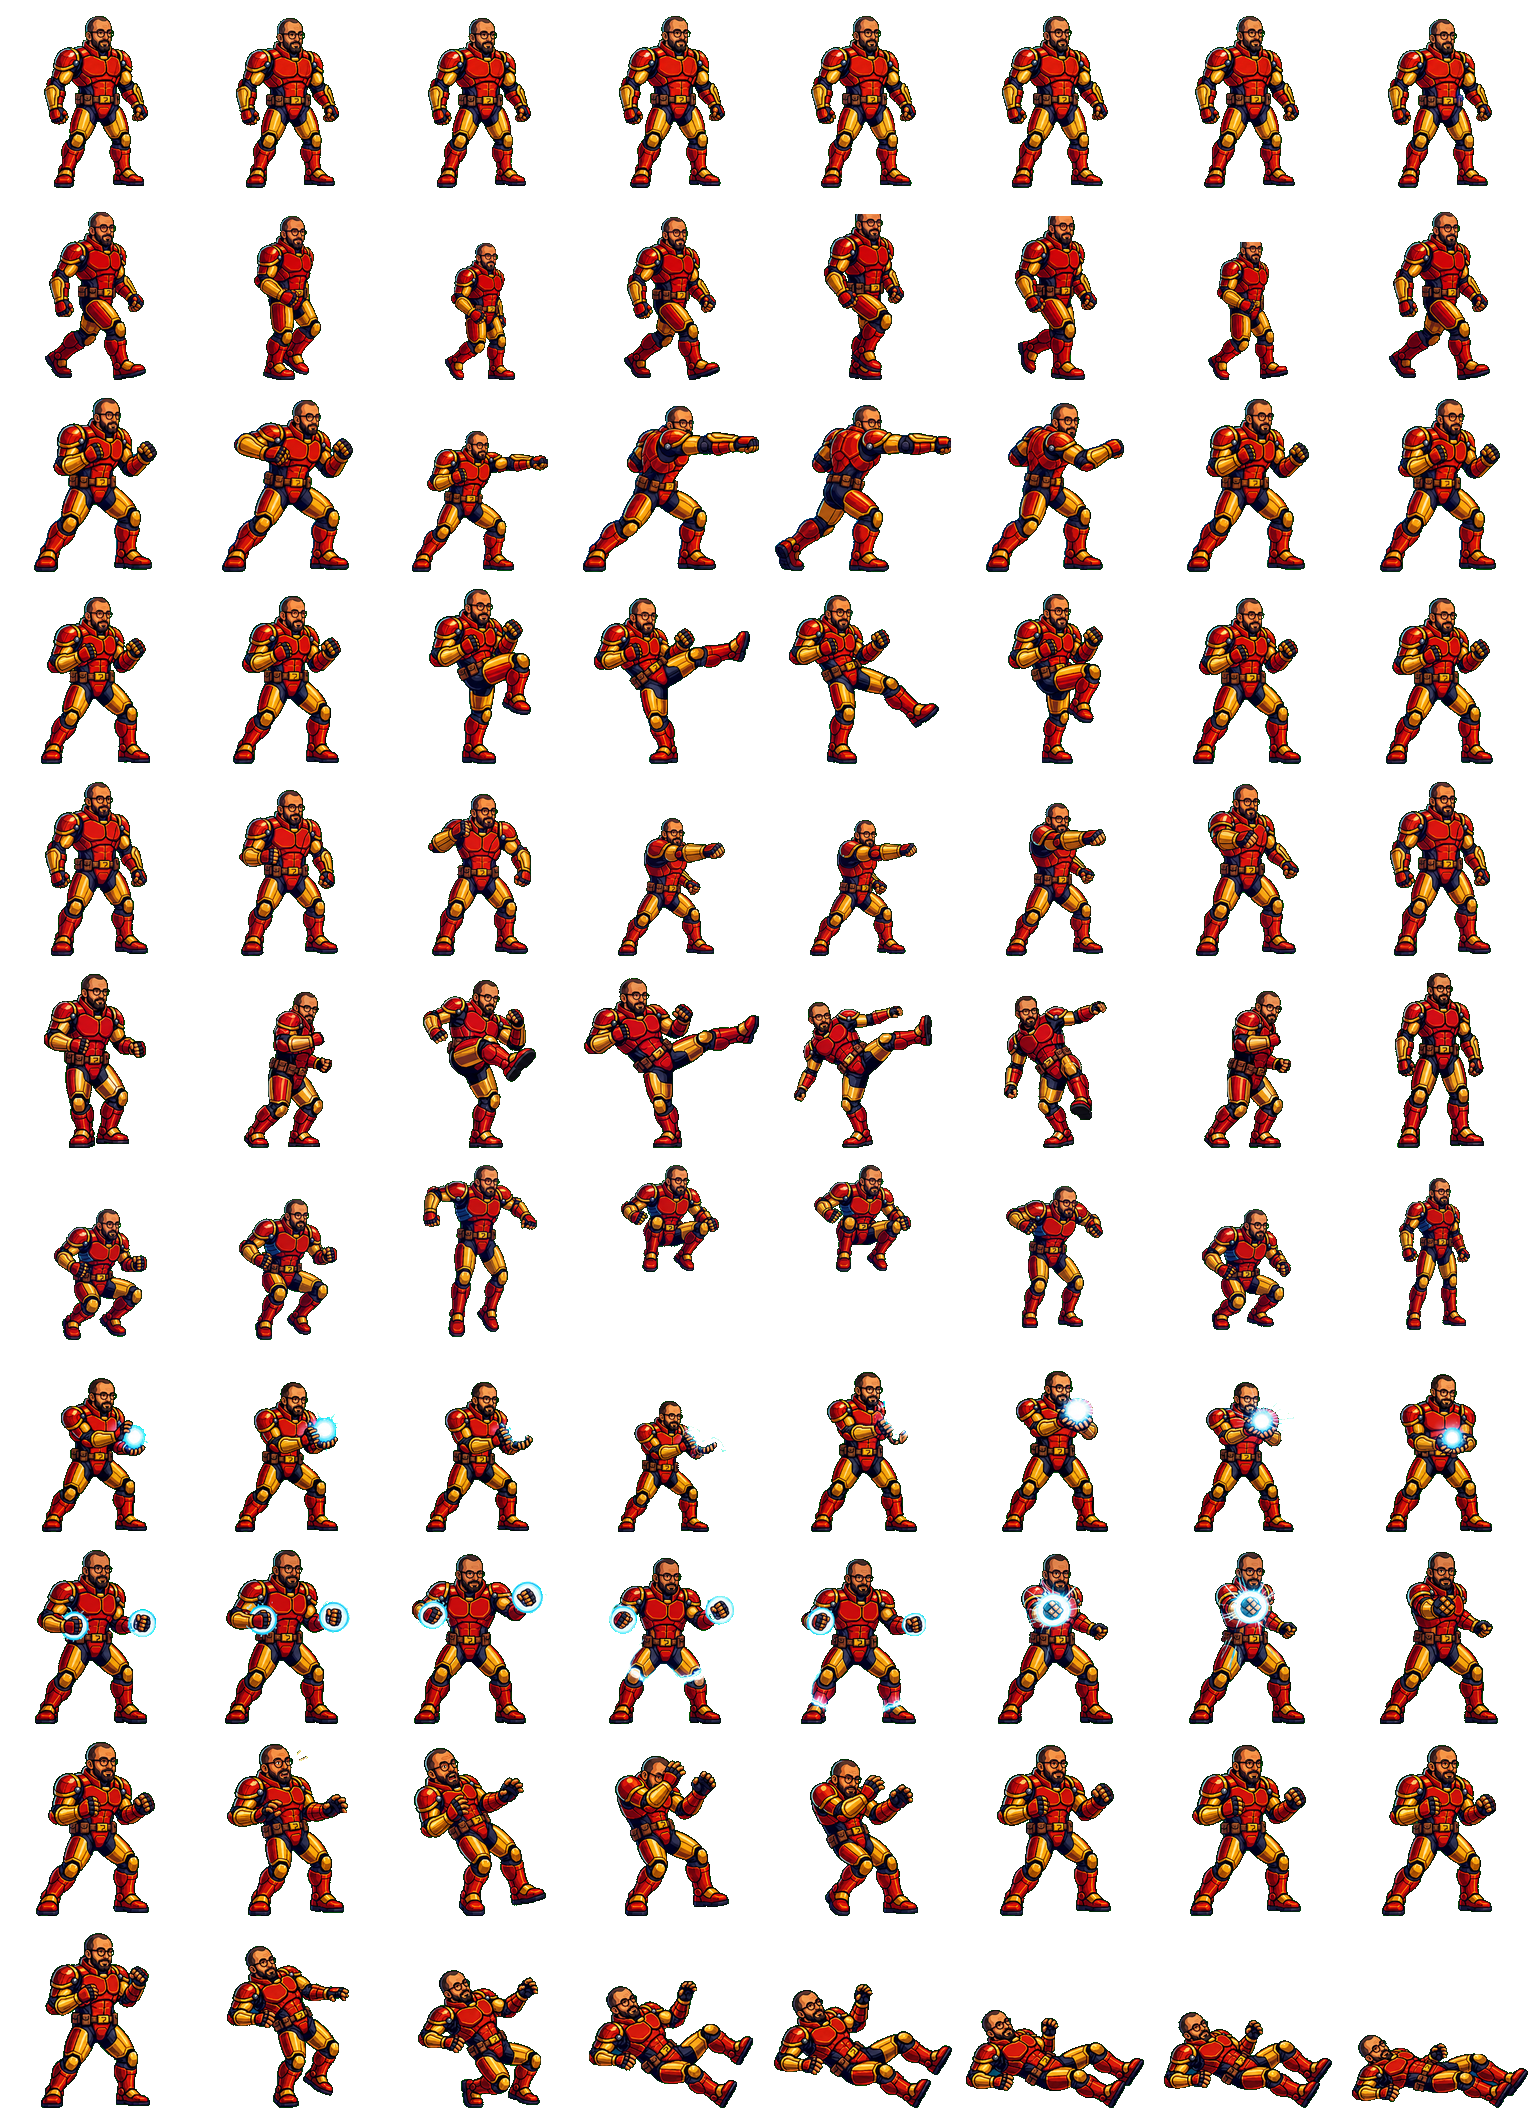
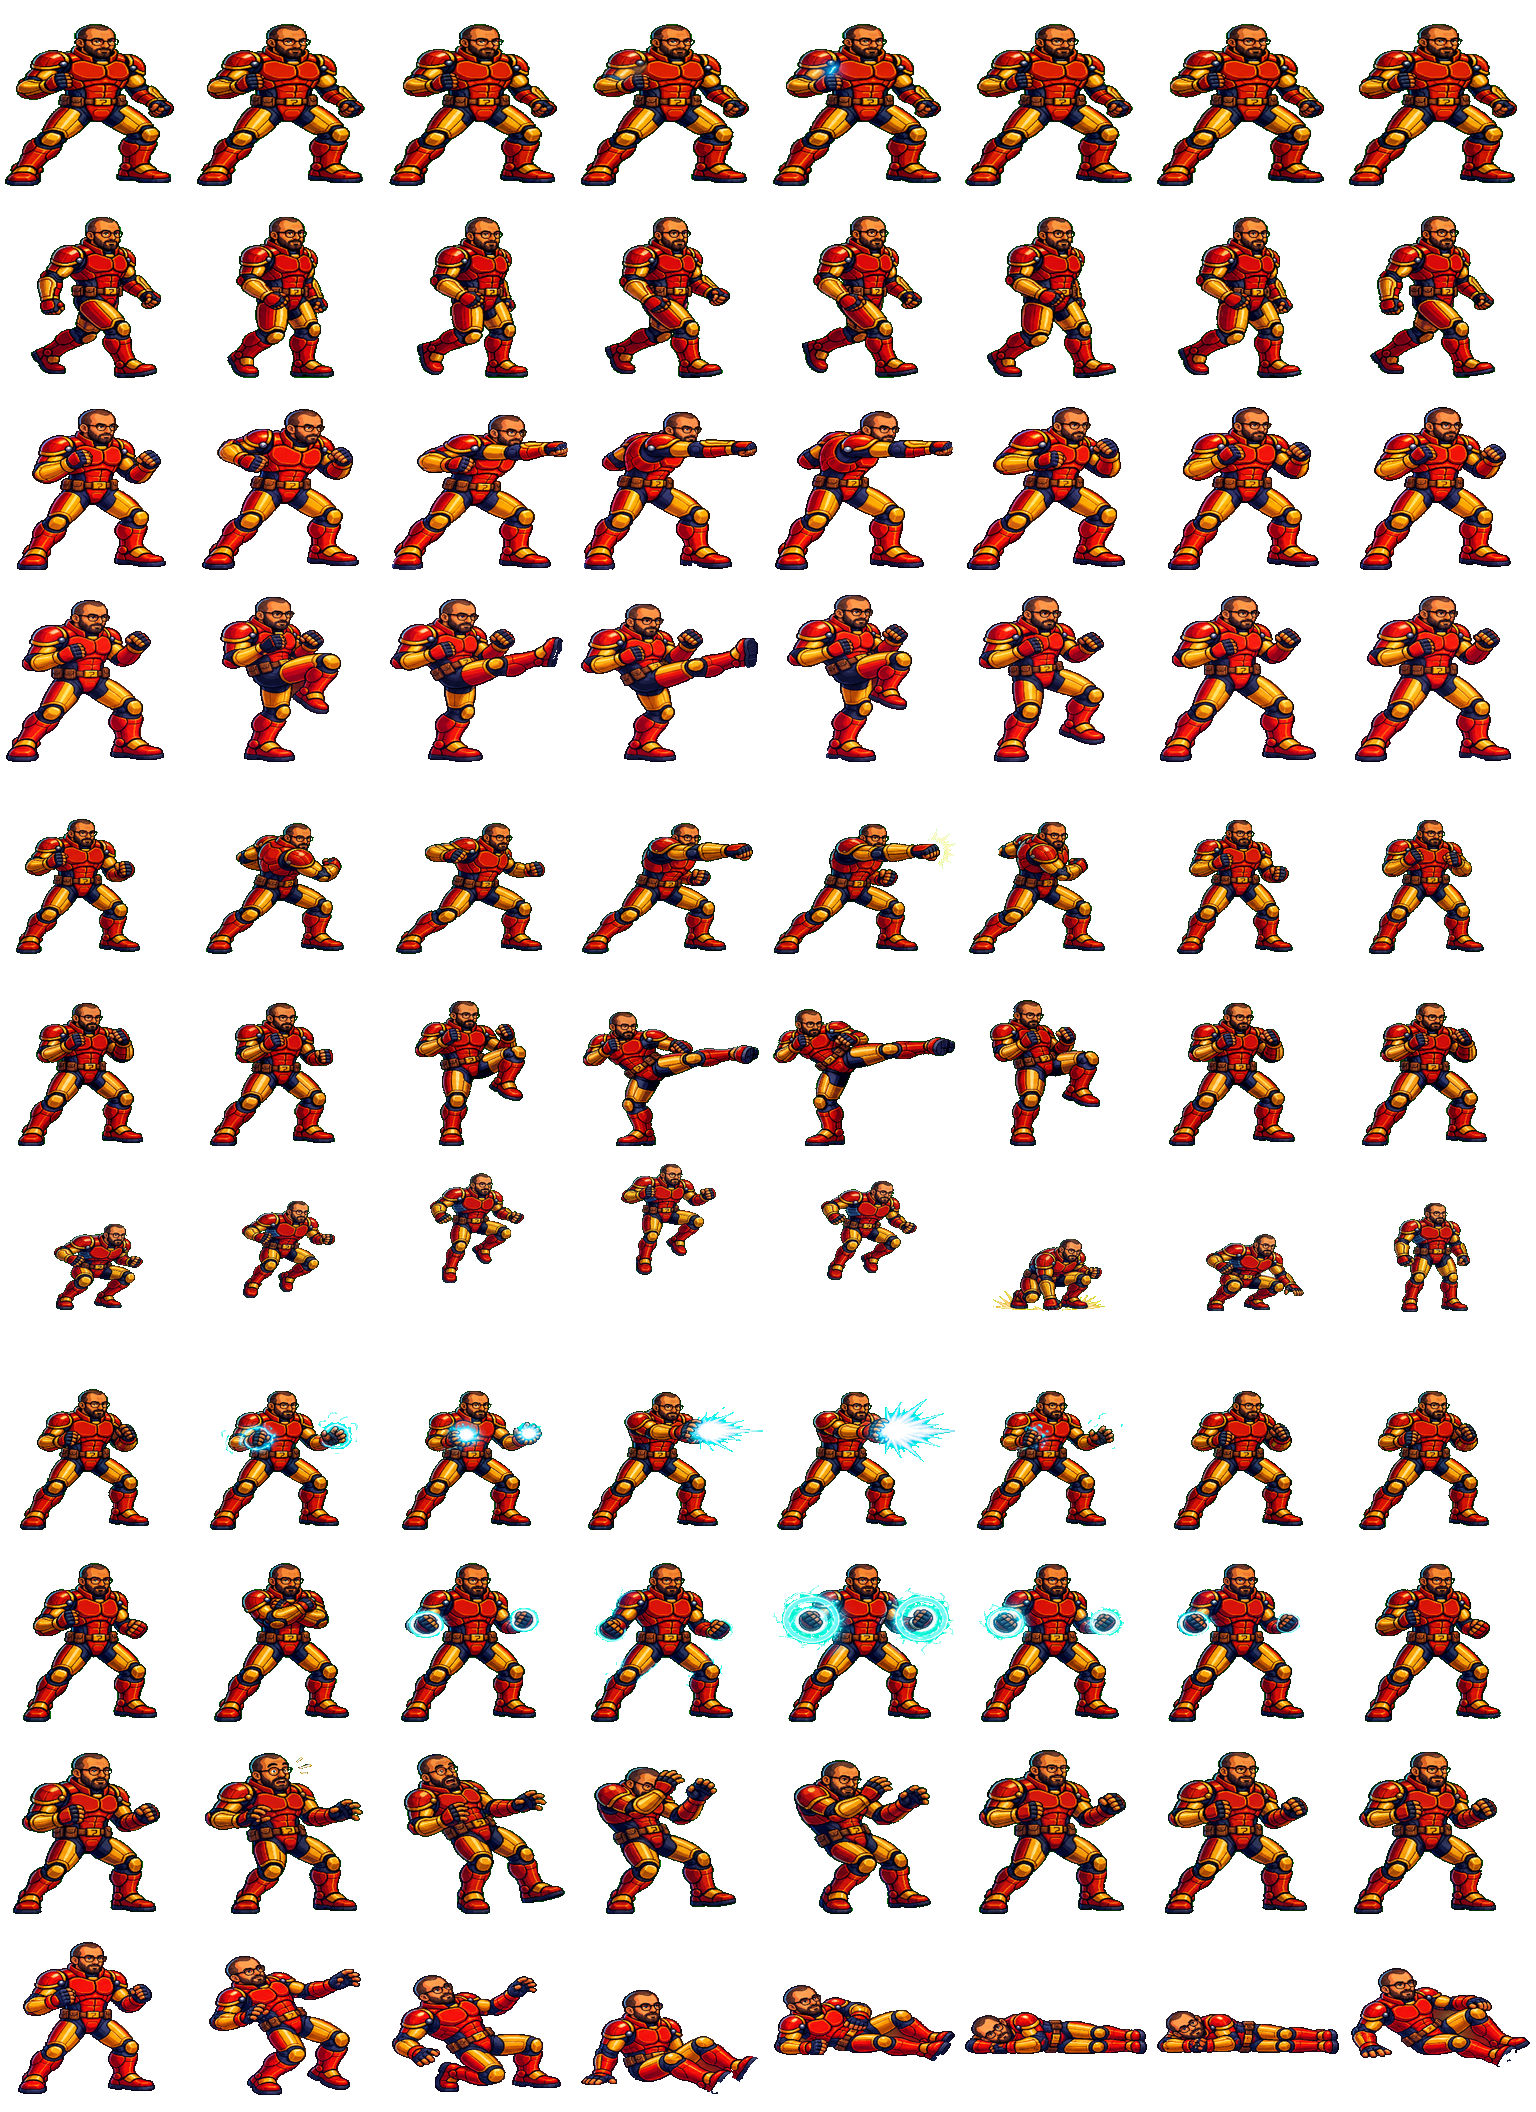
art: redraw Essa with stable high-detail animation

diff --git a/android/tools/build_two_character_redraw.py b/android/tools/build_two_character_redraw.py
@@ -14,7 +14,8 @@ from PIL import Image
 
 ROOT = Path(__file__).resolve().parents[2]
 ASSETS = ROOT / "android/app/src/main/assets"
-SOURCE = ROOT / "assets/imagegen/android/character-redraw-v3"
+SOURCE_V3 = ROOT / "assets/imagegen/android/character-redraw-v3"
+SOURCE_V4 = ROOT / "assets/imagegen/android/character-redraw-v4"
 
 ESSA_ACTIONS = ("idle", "walk", "punch", "kick", "heavy_punch",
                 "heavy_kick", "jump", "special", "link", "hurt", "knockdown")
@@ -23,16 +24,19 @@ STRIKER_ACTIONS = ("idle", "walk", "attack1", "attack2", "hurt", "knockdown")
 # The generated heavy-kick sheet contains the right keys but not chronological
 # panel order. Reorder, never interpolate, to keep one readable action.
 FRAME_REMAP = {
-    ("essa", "walk"): (0, 1, 2, 3, 5, 6, 7, 0),
-    ("essa", "heavy_kick"): (1, 4, 2, 0, 5, 6, 3, 7),
 }
+
+
+def actor_source(name: str) -> Path:
+    return SOURCE_V4 if name == "essa" else SOURCE_V3
 
 
 def is_chroma(red: int, green: int, blue: int) -> bool:
     return green > 138 and green > red * 1.35 and green > blue * 1.20
 
 
-def split_sheet(path: Path, columns: int, rows: int) -> list[Image.Image]:
+def split_sheet(path: Path, columns: int, rows: int,
+                preserve_canvas: bool = False) -> list[Image.Image]:
     image = Image.open(path).convert("RGB")
     frames = []
     for index in range(columns * rows):
@@ -48,11 +52,45 @@ def split_sheet(path: Path, columns: int, rows: int) -> list[Image.Image]:
         pixels = cell.load()
         rgba = Image.new("RGBA", cell.size, (0, 0, 0, 0))
         output = rgba.load()
-        for y in range(cell.height):
+        edge = ([pixels[x, 0] for x in range(cell.width)]
+                + [pixels[x, cell.height - 1] for x in range(cell.width)]
+                + [pixels[0, y] for y in range(cell.height)]
+                + [pixels[cell.width - 1, y] for y in range(cell.height)])
+        chroma_edge = sum(is_chroma(*color) for color in edge) / max(1, len(edge))
+        if chroma_edge >= 0.5:
+            for y in range(cell.height):
+                for x in range(cell.width):
+                    red, green, blue = pixels[x, y]
+                    if not is_chroma(red, green, blue):
+                        output[x, y] = (red, green, blue, 255)
+        else:
+            # Some otherwise approved sheets arrive on a smooth dark studio
+            # gradient. Flood only locally similar colors from the four edges;
+            # the fighter's hard navy outline stops the flood cleanly.
+            background = set()
+            queue = deque()
             for x in range(cell.width):
-                red, green, blue = pixels[x, y]
-                if not is_chroma(red, green, blue):
-                    output[x, y] = (red, green, blue, 255)
+                queue.extend(((x, 0), (x, cell.height - 1)))
+            for y in range(cell.height):
+                queue.extend(((0, y), (cell.width - 1, y)))
+            while queue:
+                x, y = queue.popleft()
+                if (x, y) in background:
+                    continue
+                background.add((x, y))
+                color = pixels[x, y]
+                for nx, ny in ((x-1, y), (x+1, y), (x, y-1), (x, y+1)):
+                    if not (0 <= nx < cell.width and 0 <= ny < cell.height):
+                        continue
+                    neighbor = pixels[nx, ny]
+                    delta = sum(abs(color[index] - neighbor[index]) for index in range(3))
+                    if delta <= 18 and (nx, ny) not in background:
+                        queue.append((nx, ny))
+            for y in range(cell.height):
+                for x in range(cell.width):
+                    if (x, y) not in background:
+                        red, green, blue = pixels[x, y]
+                        output[x, y] = (red, green, blue, 255)
         # Remove residual grid/background components. Real body/effect pixels
         # are isolated inside the chroma margin and never touch a crop edge.
         alpha = rgba.getchannel("A")
@@ -92,7 +130,7 @@ def split_sheet(path: Path, columns: int, rows: int) -> list[Image.Image]:
         bbox = rgba.getchannel("A").getbbox()
         if bbox is None:
             raise ValueError(f"empty generated cell: {path} #{index}")
-        frames.append(rgba.crop(bbox))
+        frames.append(rgba if preserve_canvas else rgba.crop(bbox))
     return frames
 
 
@@ -247,6 +285,60 @@ def place_striker_standing(frame: Image.Image, box: tuple[int, int, int, int],
     return output
 
 
+def place_essa_canvas(frame: Image.Image, target_cell: tuple[int, int],
+                      y_adjust: int = 0, row_scale: float = 1.0,
+                      ground_locked: bool = False) -> Image.Image:
+    """Scale the whole authored panel once, never the per-frame body bbox."""
+    inset = max(3, math.ceil(target_cell[0] * 0.025))
+    size = (round((target_cell[0] - inset * 2) * row_scale),
+            round((target_cell[1] - inset * 2) * row_scale))
+    actor = frame.resize(size, Image.Resampling.LANCZOS)
+    alpha = actor.getchannel("A").point(lambda value: 255 if value >= 96 else 0)
+    actor.putalpha(alpha)
+    output = Image.new("RGBA", target_cell, (0, 0, 0, 0))
+    output.alpha_composite(actor, ((target_cell[0] - actor.width) // 2,
+                                    (target_cell[1] - actor.height) // 2 + y_adjust))
+    bbox = output.getchannel("A").getbbox()
+    if bbox is not None:
+        dx = 5 - bbox[0] if bbox[0] < 5 else (target_cell[0] - 5 - bbox[2]
+                                              if bbox[2] > target_cell[0] - 5 else 0)
+        if ground_locked:
+            dy = target_cell[1] - 6 - bbox[3]
+            if bbox[1] + dy < 5:
+                dy = 5 - bbox[1]
+        else:
+            dy = 5 - bbox[1] if bbox[1] < 5 else (target_cell[1] - 1 - bbox[3]
+                                                  if bbox[3] > target_cell[1] - 1 else 0)
+        if dx or dy:
+            shifted = Image.new("RGBA", target_cell, (0, 0, 0, 0))
+            shifted.alpha_composite(output, (dx, dy))
+            output = shifted
+    return output
+
+
+def essa_row_scale(frames: list[Image.Image], target_cell: tuple[int, int]) -> float:
+    """Normalize action-sheet authoring scale while preserving frame motion."""
+    inset = max(3, math.ceil(target_cell[0] * 0.025))
+    inner_width = target_cell[0] - inset * 2
+    inner_height = target_cell[1] - inset * 2
+    neutral = frames[0].getchannel("A").getbbox()
+    if neutral is None:
+        return 1.0
+    neutral_height = (neutral[3] - neutral[1]) / frames[0].height * inner_height
+    scale = target_cell[1] * 0.84 / max(1, neutral_height)
+    # Every row shares one scale. Cap it against the widest/tallest action key
+    # so an extended fist, boot, or energy ring remains inside a 5px gutter.
+    for frame in frames:
+        bbox = frame.getchannel("A").getbbox()
+        if bbox is None:
+            continue
+        width = (bbox[2] - bbox[0]) / frame.width * inner_width
+        height = (bbox[3] - bbox[1]) / frame.height * inner_height
+        scale = min(scale, (target_cell[0] - 10) / max(1, width),
+                    (target_cell[1] - 10) / max(1, height))
+    return max(0.85, min(1.35, scale))
+
+
 def build_actor(name: str, actions: tuple[str, ...], source_columns: int,
                 output_specs: tuple[tuple[Path, tuple[int, int]], ...]) -> None:
     columns, rows = source_columns, len(actions)
@@ -254,9 +346,11 @@ def build_actor(name: str, actions: tuple[str, ...], source_columns: int,
     boxes = []
     source_rows = []
     for row, action in enumerate(actions):
-        frames = split_sheet(SOURCE / name / "actions" / f"{action}.png",
-                             4 if name == "essa" else 3, 2)
-        placement = guide_boxes(SOURCE / name / "guides" / f"{action}.png",
+        source_root = actor_source(name)
+        frames = split_sheet(source_root / name / "actions" / f"{action}.png",
+                             4 if name == "essa" else 3, 2,
+                             preserve_canvas=name == "essa")
+        placement = guide_boxes(source_root / name / "guides" / f"{action}.png",
                                 4 if name == "essa" else 3, 2)
         remap = FRAME_REMAP.get((name, action))
         if remap:
@@ -273,6 +367,8 @@ def build_actor(name: str, actions: tuple[str, ...], source_columns: int,
         atlas = Image.new("RGBA", (target_cell[0] * columns, target_cell[1] * rows),
                           (0, 0, 0, 0))
         for row, action in enumerate(actions):
+            row_scale = essa_row_scale(source_rows[row], target_cell) \
+                if name == "essa" and action not in ("jump", "knockdown") else 1.0
             for column, frame in enumerate(source_rows[row]):
                 # Generated idle frames are intentionally restrained. A one
                 # pixel breath keeps the loop visibly alive without rubber scaling.
@@ -280,7 +376,11 @@ def build_actor(name: str, actions: tuple[str, ...], source_columns: int,
                     if name == "essa" and action == "idle" else 0
                 adjust = (0, -1, 0, -1, 0, -1)[column] \
                     if name == "striker" and action == "idle" else adjust
-                if name == "striker" and action != "knockdown":
+                if name == "essa":
+                    cell = place_essa_canvas(
+                        frame, target_cell, adjust, row_scale,
+                        ground_locked=action not in ("jump", "knockdown"))
+                elif name == "striker" and action != "knockdown":
                     cell = place_striker_standing(
                         frame, boxes[row][column], reference_cell, target_cell, adjust)
                 else:

diff --git a/android/tools/test_two_character_redraw_contract.py b/android/tools/test_two_character_redraw_contract.py
@@ -58,4 +58,21 @@ assert "manager.getMemoryClass() >= 384" in GAME_VIEW
 assert 'loadBitmap("uhd/heroes/" + stem)' in GAME_VIEW
 assert 'loadBitmap("uhd/enemies/" + stem)' in GAME_VIEW
 
+for relative, cell_width, cell_height, maximum_height_delta in (
+    ("heroes/parent_anim.png", 192, 192, 2),
+    ("runtime/heroes/parent_anim.png", 284, 284, 3),
+    ("uhd/heroes/parent_anim.png", 384, 384, 5),
+):
+    atlas = Image.open(ASSETS / relative).convert("RGBA")
+    walk_boxes = []
+    for column in range(8):
+        cell = atlas.crop((column * cell_width, cell_height,
+                           (column + 1) * cell_width, cell_height * 2))
+        walk_boxes.append(cell.getchannel("A").getbbox())
+    heights = [box[3] - box[1] for box in walk_boxes]
+    bottoms = [box[3] for box in walk_boxes]
+    assert max(heights) - min(heights) <= maximum_height_delta, \
+        (relative, "walk scale pumping", heights)
+    assert len(set(bottoms)) == 1, (relative, "walk ground-line drift", bottoms)
+
 print("Two-character redraw contract: PASS (Essa + Striker only, adaptive UHD)")

diff --git a/assets/imagegen/android/character-redraw-v4/README_AR.md b/assets/imagegen/android/character-redraw-v4/README_AR.md
@@ -1,0 +1,25 @@
+# Essa Redraw V4
+
+إعادة رسم كاملة لشخصية Essa فقط، مبنية بصور ثابتة داخل Codex/ImageGen دون فيديو.
+
+## الأقفال البصرية
+
+- الهوية: شعر متراجع/رأس أصلع، لحية سوداء، نظارة سوداء مستطيلة، وبشرة بنية دافئة.
+- العين: قزحية بنية داكنة، بؤبؤ شبه أسود، لمعة بيضاء وبياض عين منفصل عن البشرة.
+- الزي: درع أحمر وذهبي مع مفاصل وطبقة داخلية كحلية، دون تغيير التصميم.
+- الأسلوب: عناقيد بكسل صغيرة، حد خارجي كحلي حاد، تظليل cel بثلاث درجات،
+  وتباين مطابق لمستوى Striker وShield Guard.
+- الحركة: لوحة `4×2` لكل حركة، مع ثبات الحجم وخط الأرض في idle/walk.
+
+## الحركات
+
+`idle`, `walk`, `punch`, `kick`, `heavy_punch`, `heavy_kick`, `jump`,
+`special`, `link`, `hurt`, `knockdown` — ثمانية إطارات لكل حركة.
+
+## البناء
+
+يستخدم `android/tools/build_two_character_redraw.py` مصدر V4 لـEssa ومصدر V3
+لـStriker. يحتفظ مسار Essa بمساحة اللوحة الكاملة بدل قص الجسم وإعادة تكبيره لكل
+إطار، ثم يوحّد مقياس الصف وخط الأرض. هذا يمنع ظاهرة التكبير والتصغير أثناء المشي.
+
+لا يغيّر هذا المصدر أي شخصية أخرى.
